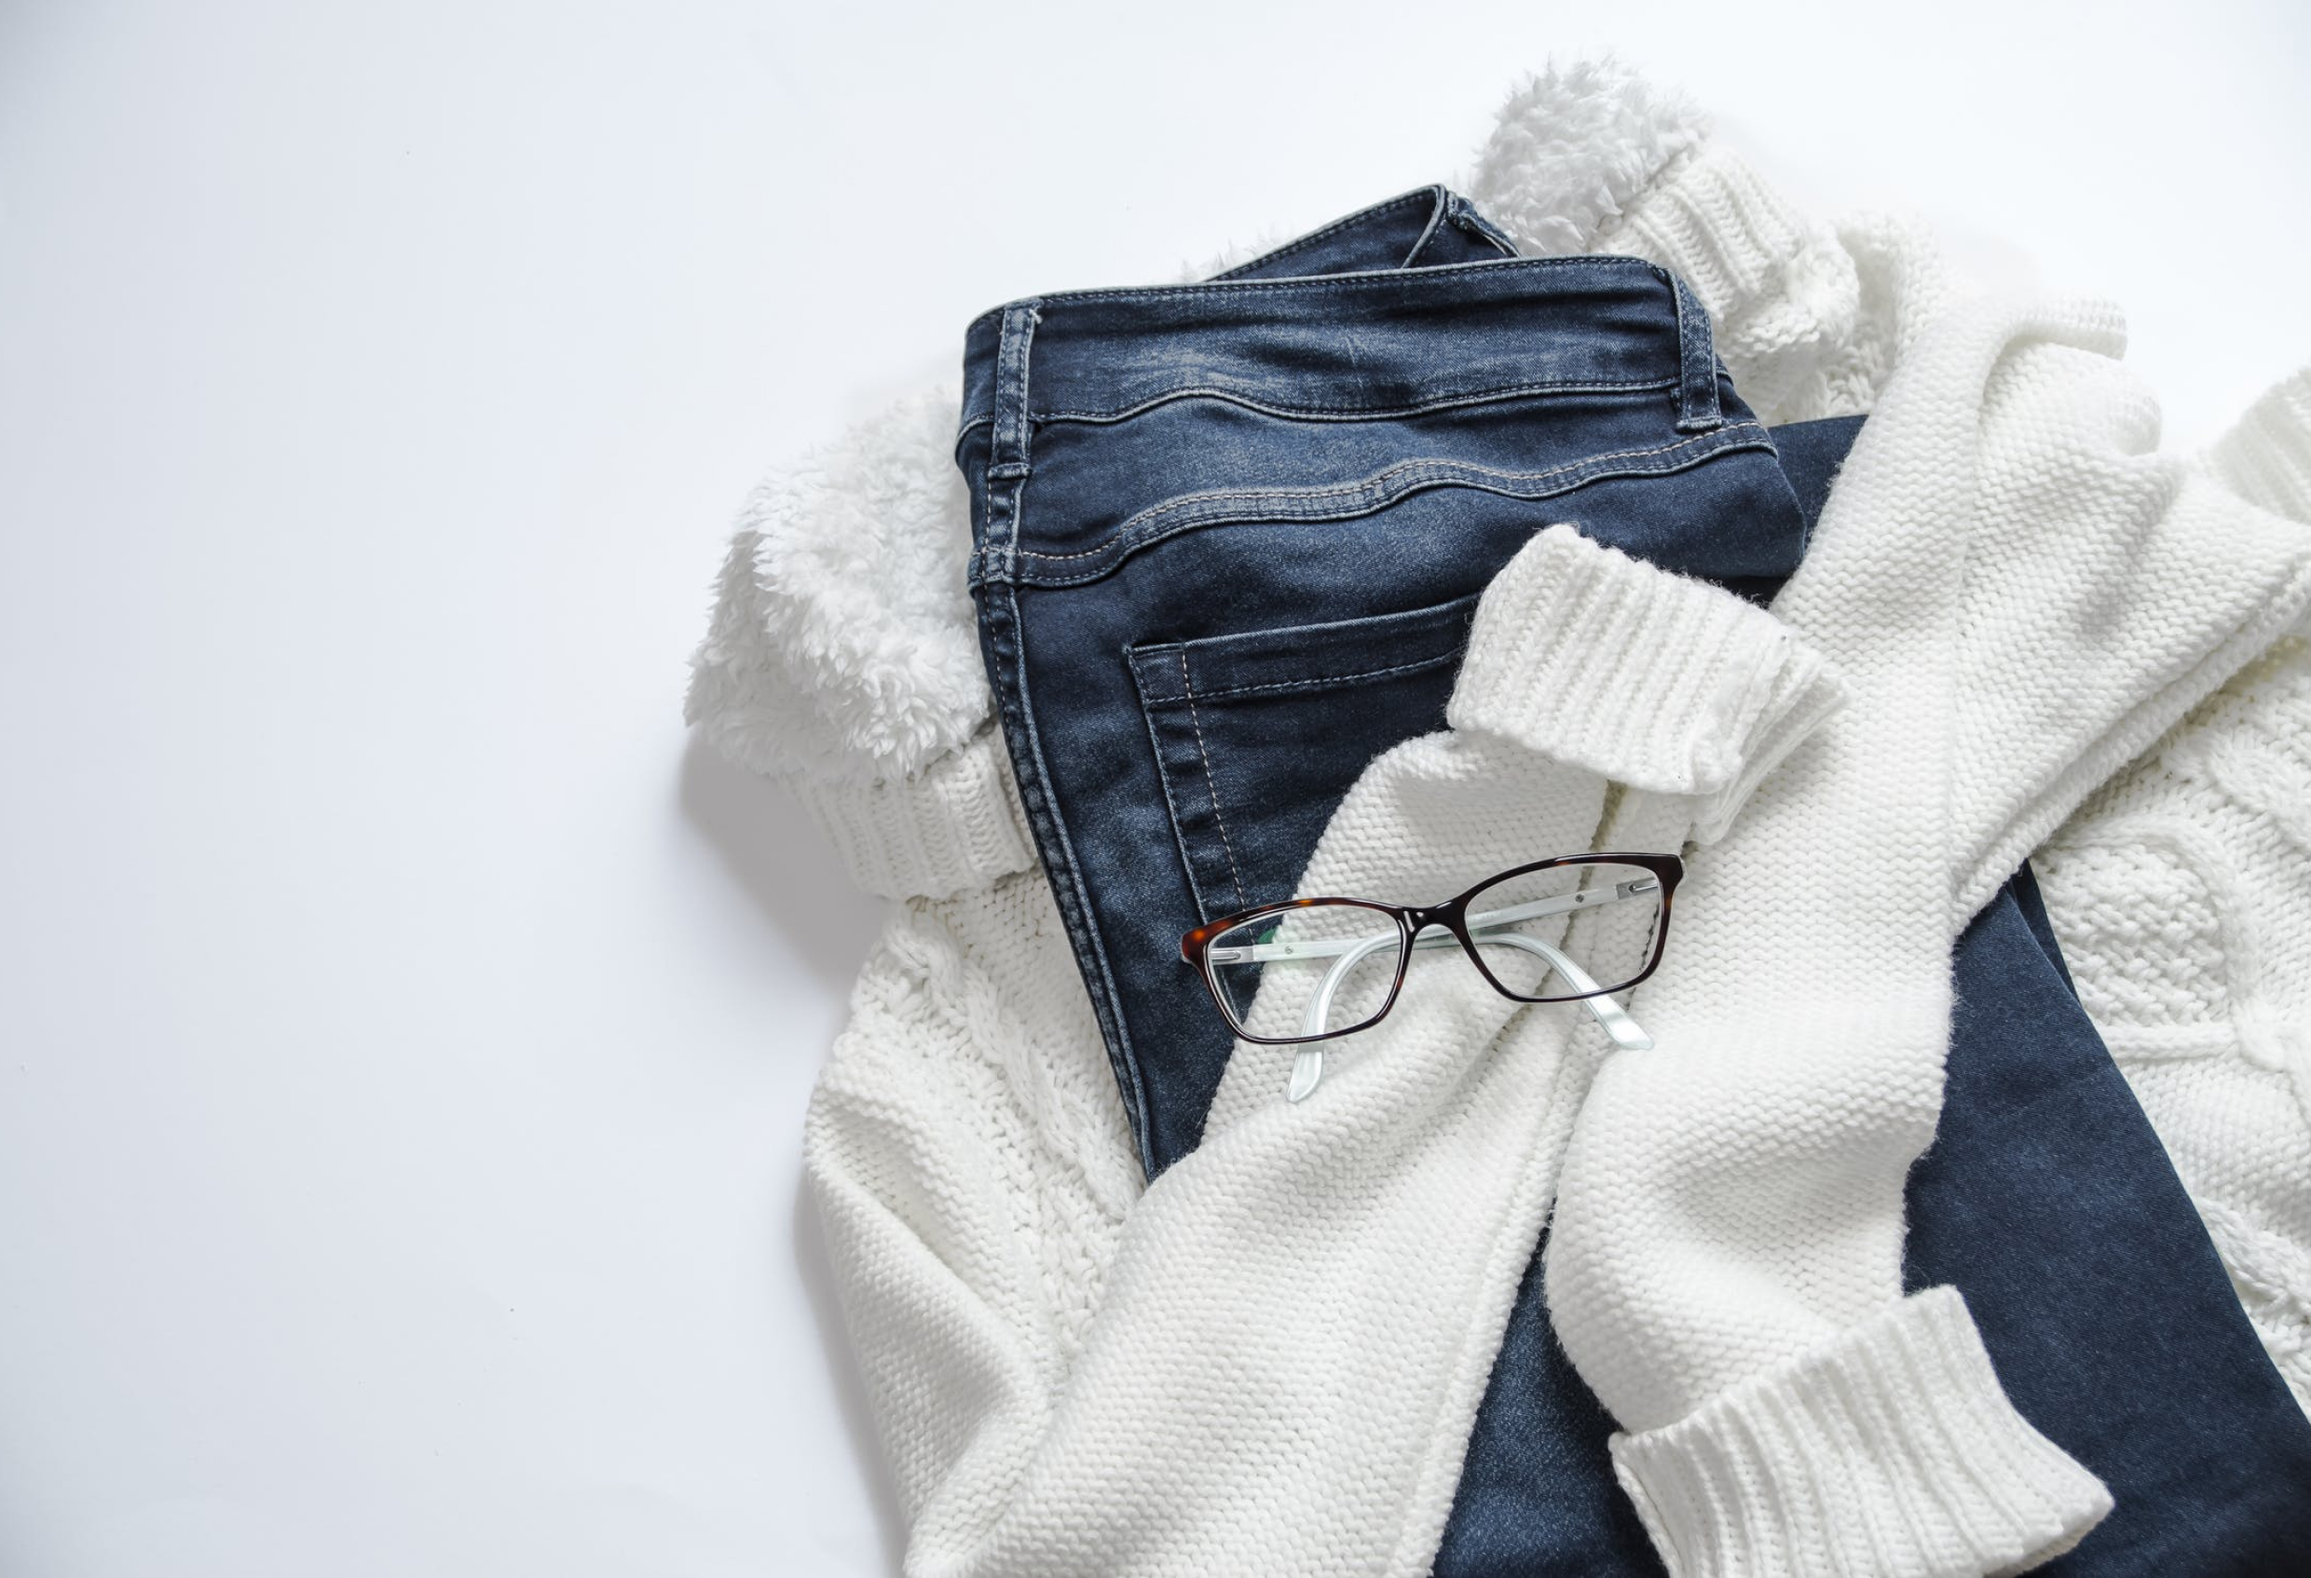
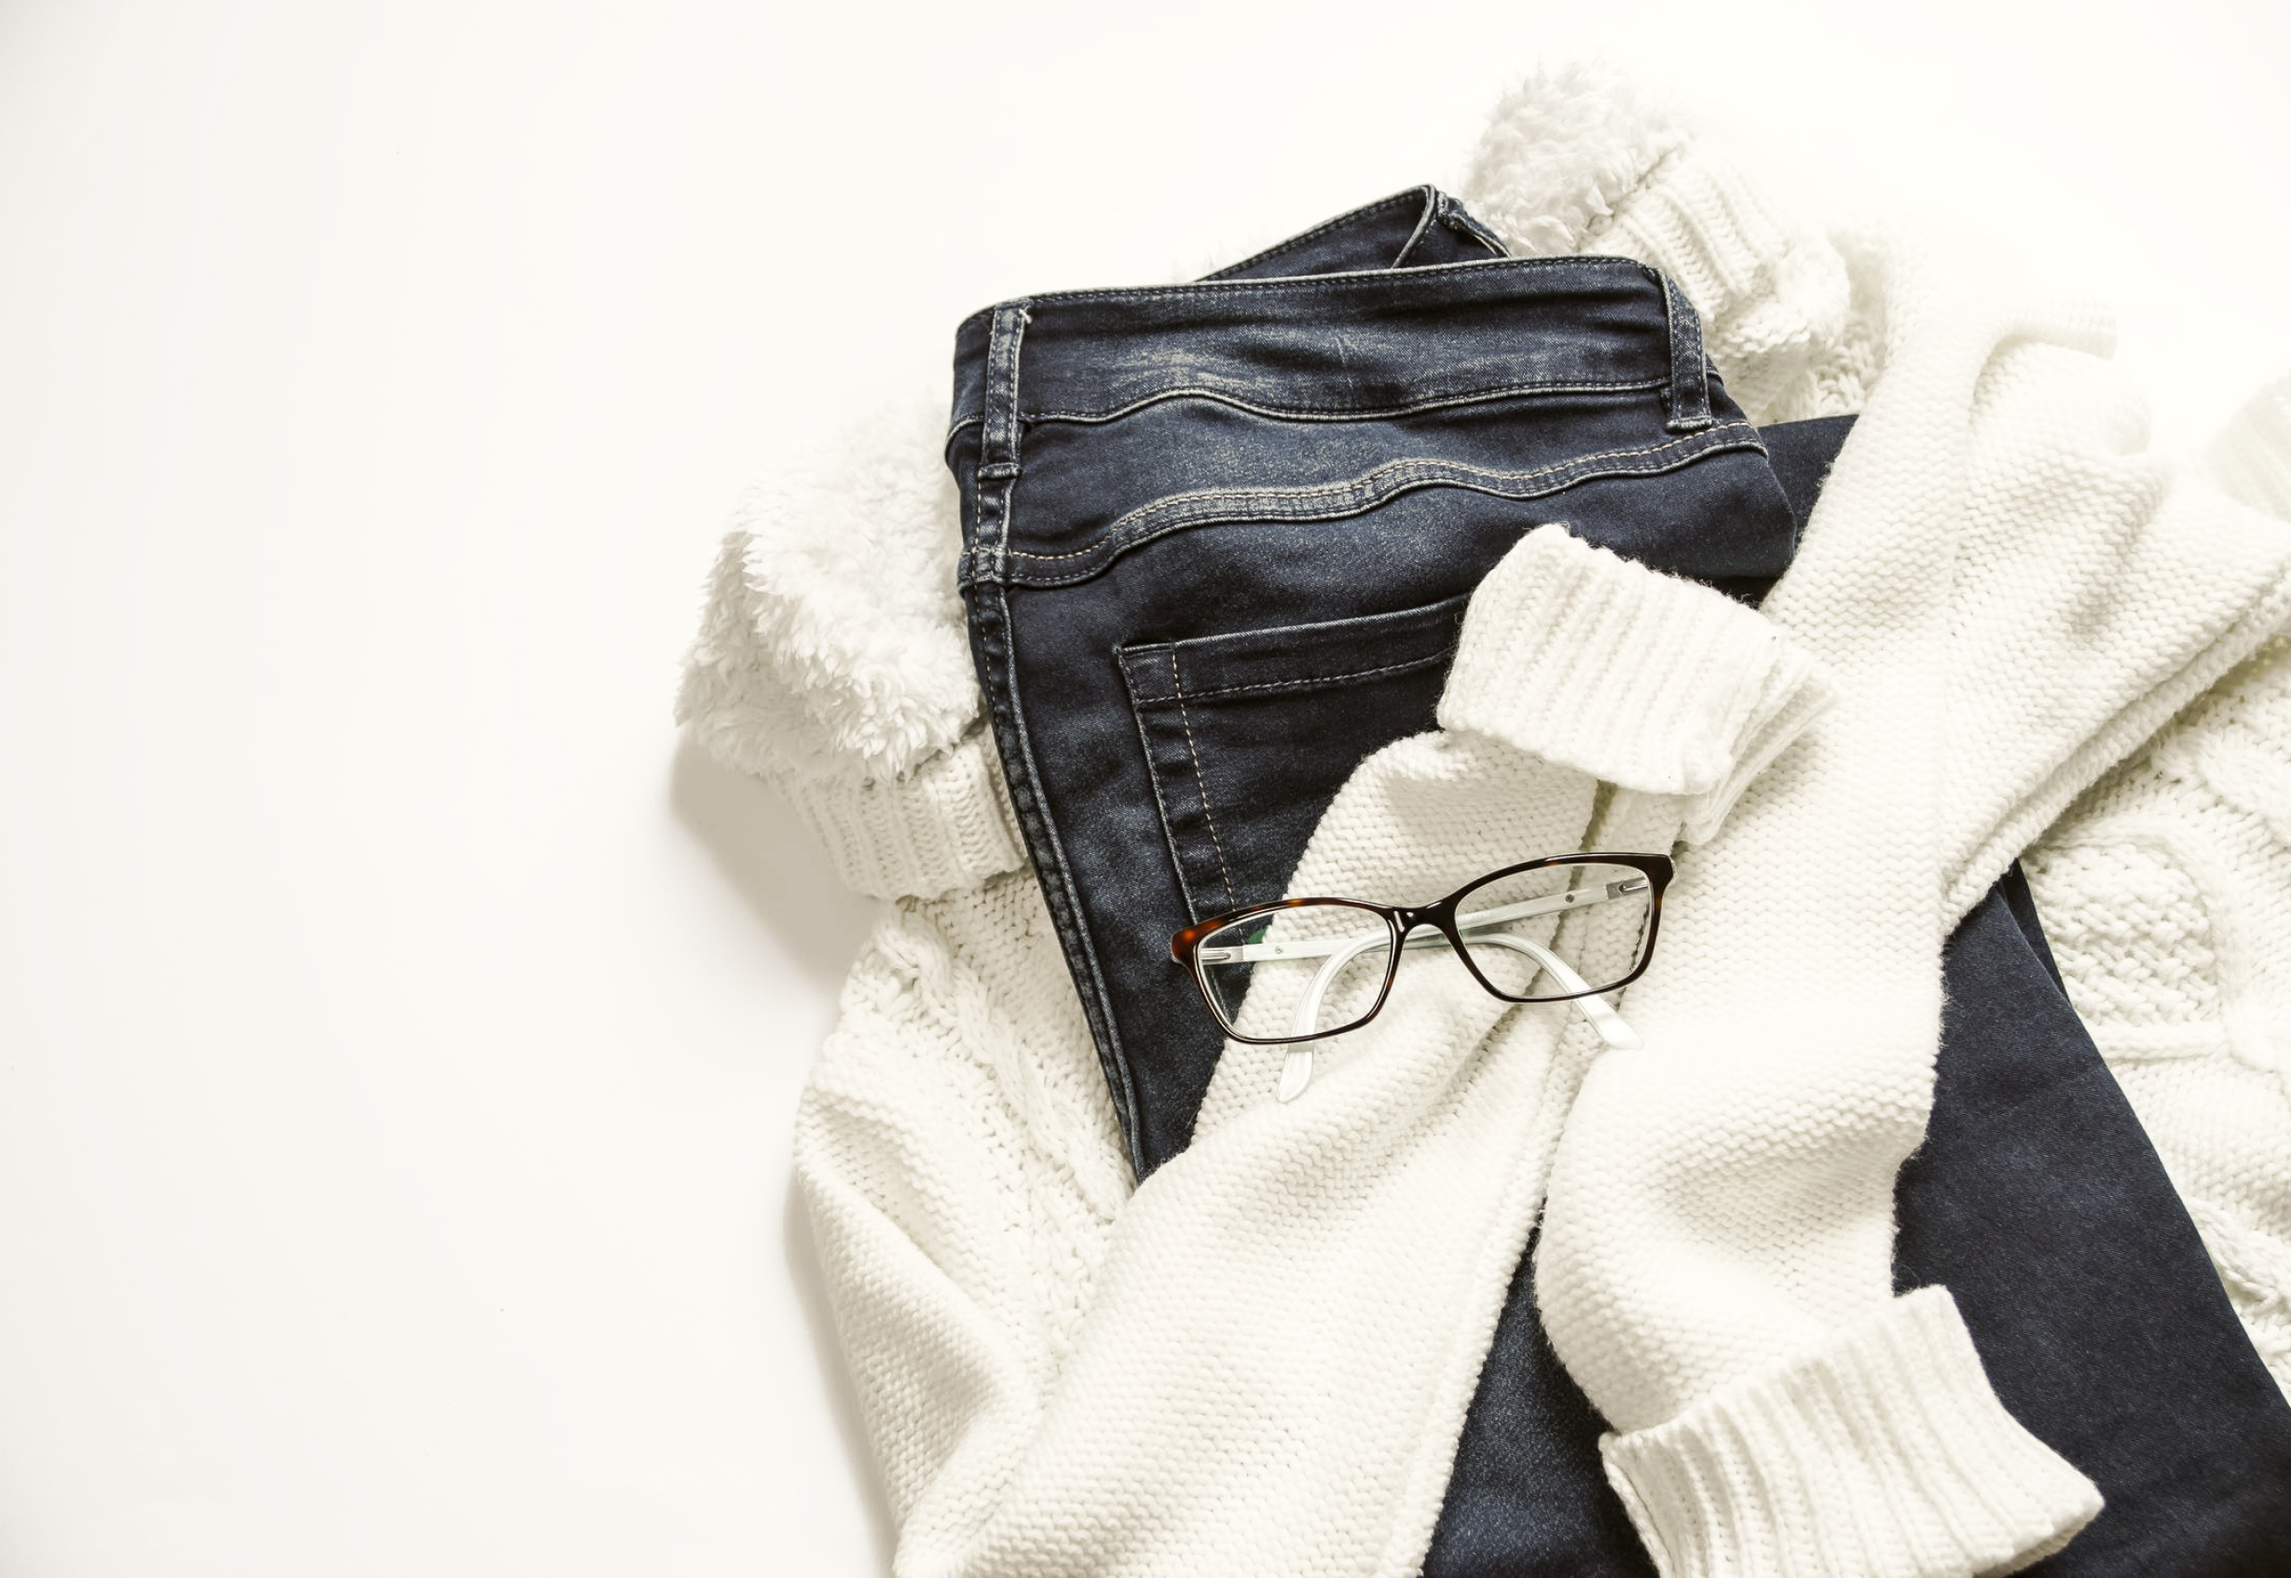
got image working

diff --git a/src/client/components/HomePageCTA.js b/src/client/components/HomePageCTA.js
@@ -1,7 +1,7 @@
 import React from 'react';
 import PropTypes from 'prop-types';
 import LoopieButton from './LoopieButton';
-import CTAImage from '../../../public/images/placeholder1.jpg';
+import CTAImage from '../../../public/images/cover.jpg';
 import StickyNotes from './StickyNotes';
 import {loopieblue} from './styles';
 import Paper from '@material-ui/core/Paper';
@@ -24,14 +24,13 @@ const HomePageCTA = ({CTAText, subtext, handleEmail, classes}) => (
 
   <div className='home-page-cta'>
     <div className="cta-container ">
-    <img className='cta-image' src={CTAImage} />
+      <div className='cta-image' style={{backgroundImage: "url(" + CTAImage+ ")"}}  ></div>
 
-    <h1 className='cta-text'>{CTAText}</h1>
-    <h4 className='cta-subtext text-dark'>{subtext}</h4>
-    <div className='btn' >
-    <LoopieButton text='Lets get started' className="text-light" variant="outlined"/>
-
-    </div>
+      <h1 className='cta-text'>{CTAText}</h1>
+      <h4 className='cta-subtext text-dark'>{subtext}</h4>
+      <div className='btn' >
+        <LoopieButton text='Lets get started' className="text-light" variant="outlined"/>
+     </div>
 
     
     <div className={ classes.root} >
@@ -49,6 +48,7 @@ const HomePageCTA = ({CTAText, subtext, handleEmail, classes}) => (
 HomePageCTA.propTypes = {
   CTAText: PropTypes.string,
   subtext: PropTypes.string,
+  
   handleEmail: PropTypes.func,
 };
 

diff --git a/src/client/containers/HomePageContainer.js b/src/client/containers/HomePageContainer.js
@@ -48,7 +48,7 @@ class HomePageContainer extends React.Component {
     return (
       <React.Fragment>
         <Navbar items={this.state.navItems}/>
-        <HomePageCTA handleEmail={this.sendMail} CTAText='Never Do Your Laundry Again.' subtext='Flat rates, starting from $27.99'/>
+        <HomePageCTA handleEmail={this.sendMail} CTAText='Never Do Your Laundry Again.' subtext='Flat rates, starting from $27.99' />
       </React.Fragment>
     );
   }

diff --git a/src/client/styles/home.scss b/src/client/styles/home.scss
@@ -22,7 +22,12 @@
       
       height: 90%;
       grid-column: 1 / 2;
-      grid-row: 1 / 7;
+      grid-row: 1 / 9;
+      background-position: center; /* Center the image */
+  background-repeat: no-repeat; /* Do not repeat the image */
+  background-size: cover; 
+  
+      
       
     }
     .cta-text {

diff --git a/src/client/styles/variables.scss b/src/client/styles/variables.scss
@@ -2,7 +2,7 @@ $ColorDark: #222627;
 $ColorLoopie: #FFC700;
 $ColorBlue: #0085FF;
 $ColorGreen: #2ABD88;
-$ColorWhite: #E5E5E5;
+$ColorWhite: #FCFBF9;
 $ColorGrey: #949494;
 $ColorGreyDark: #4B4B4B;
 $ColorDarkGradient: linear-gradient(to bottom right, #18314E, #0E1B27);

diff --git a/src/client/styles/body.scss b/src/client/styles/body.scss
@@ -1,7 +1,7 @@
 html, body, #root, #root>div {
   height: 100vh;
   background: no-repeat center center fixed;
-  background-image: $ColorWhite;
+  background-color: $ColorWhite;
   overflow-x: hidden;
   -webkit-background-size: cover;
   -moz-background-size: cover;
